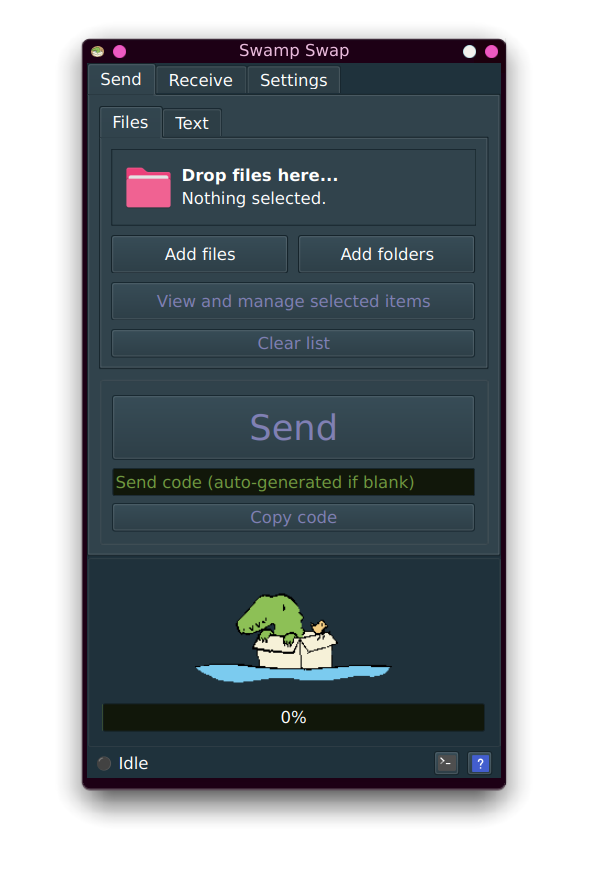
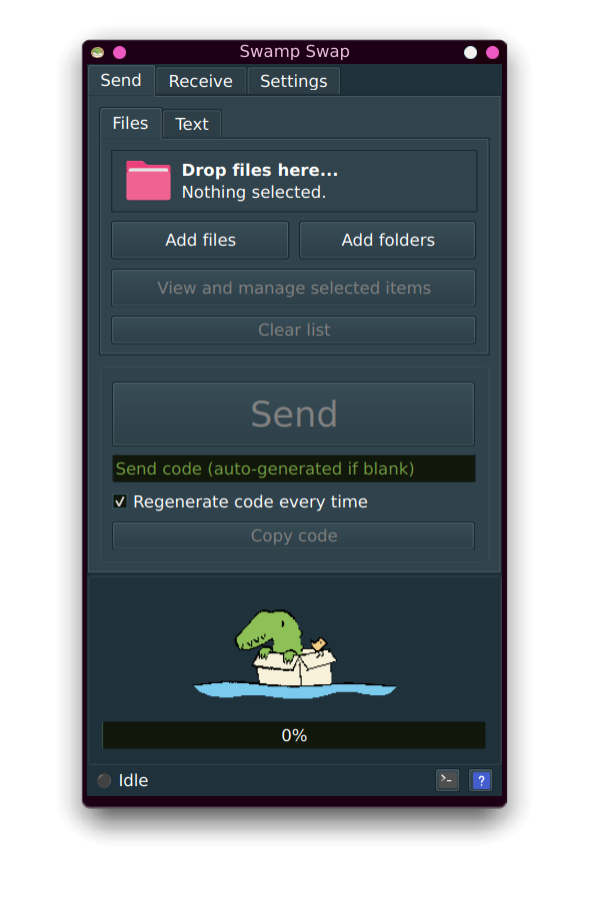
Add AppImage metadata

diff --git a/main.py b/main.py
@@ -11,7 +11,7 @@ from app.workers.worker_croc import CrocWorker
 
 # Name and version variables
 _APP_NAME = "Swamp Swap"
-_APP_VERSION = "1.5.3"
+_APP_VERSION = "1.5.4"
 _MINIMUM_CROC_VERSION = "11.2.4"
 
 
